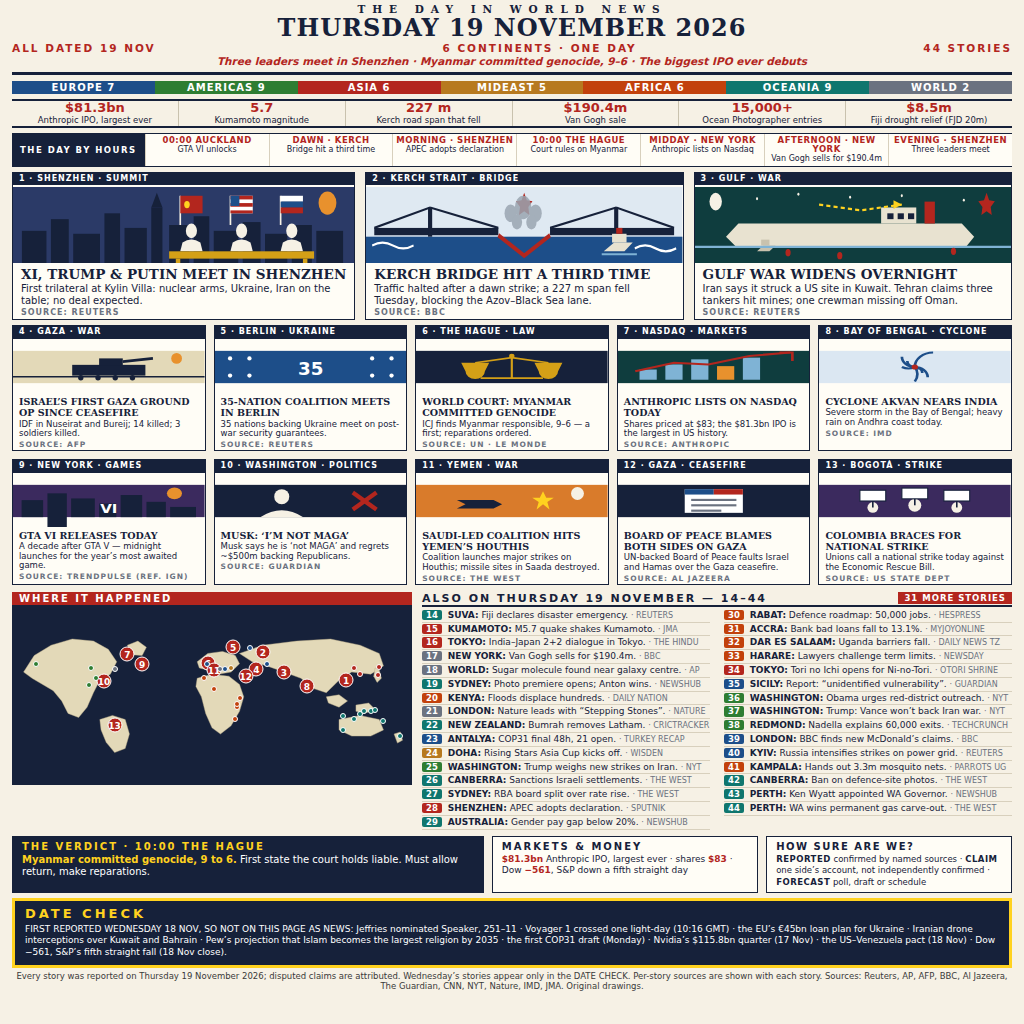
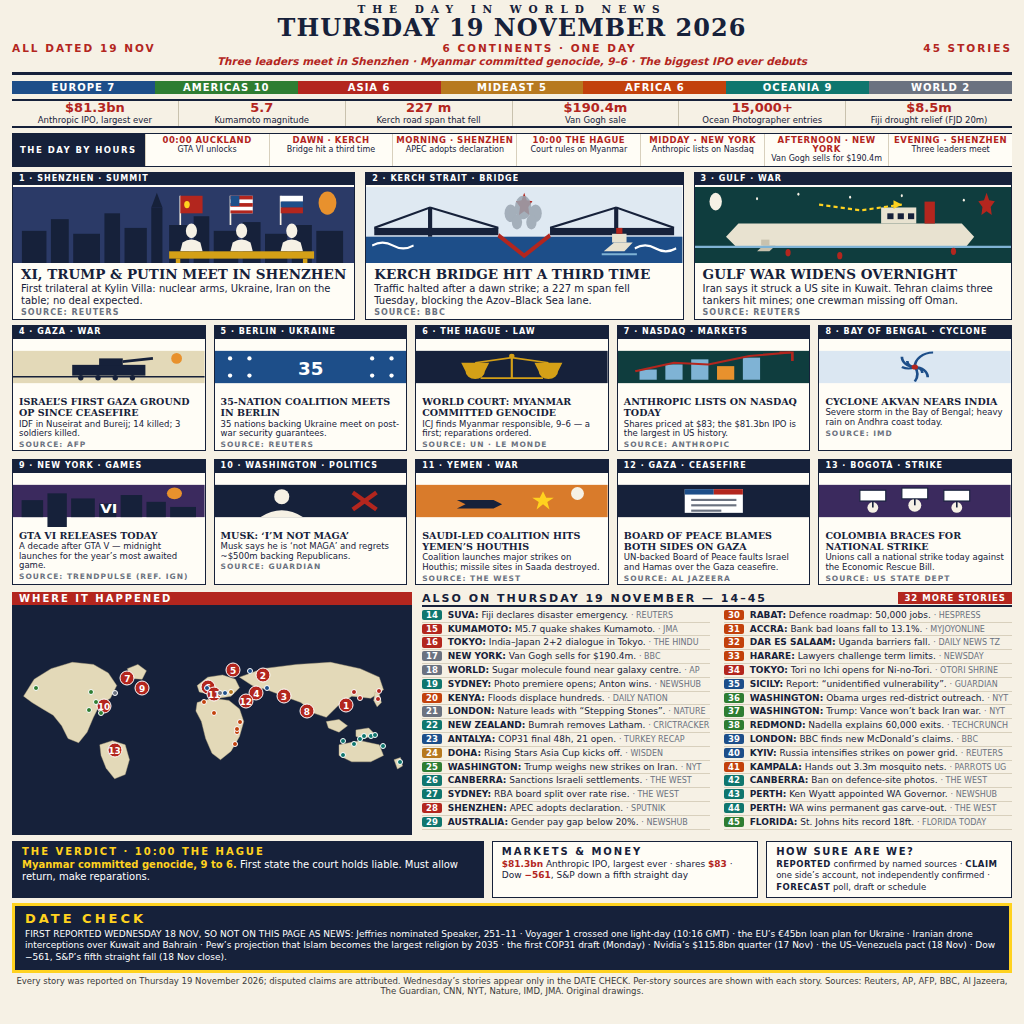
K2 v2 rev-6: add story 45 Florida (St. Johns record 18ft, verified Florida Today); map full-height 225px no gap; briefs balanced 16/16; counts 45 stories, Americas 10

Changed region(s): [[0.0, 0.625, 1.0, 0.9688], [0.1875, 0.0625, 0.25, 0.0938]]

diff --git a/render.html b/render.html
@@ -30,7 +30,7 @@ h1.date { font-size:24px; line-height:1.05; letter-spacing:1px; font-weight:900;
 .bottom { display:flex; gap:10px; margin-top:7px; }
 .mapcol { flex:0 0 40%; display:flex; flex-direction:column; justify-content:flex-start; }
 .map-label { background:#b3261e; color:#fff; font-size:10px; letter-spacing:2px; font-weight:bold; padding:1px 7px; }
-.map { border:1.5px solid #16213a; background:#16213a; position:relative; height:180px; overflow:hidden; }
+.map { border:1.5px solid #16213a; background:#16213a; position:relative; flex:1; overflow:hidden; }
 .map svg { width:100%; height:100%; display:block; }
 .pin { position:absolute; width:15px; height:15px; border-radius:50%; background:#b3261e; color:#fff; font-size:9px; font-weight:bold; text-align:center; line-height:15px; transform:translate(-50%,-50%); border:1.5px solid #fff; z-index:2; }
 .dot { position:absolute; width:6px; height:6px; border-radius:50%; transform:translate(-50%,-50%); border:1px solid #fff; z-index:2; }
@@ -77,11 +77,11 @@ h1.date { font-size:24px; line-height:1.05; letter-spacing:1px; font-weight:900;
 <div class="masthead">
   <div class="kicker">THE DAY IN WORLD NEWS</div>
   <h1 class="date">THURSDAY 19 NOVEMBER 2026</h1>
-  <div class="subline"><span>ALL DATED 19 NOV</span><span>6 CONTINENTS &middot; ONE DAY</span><span>44 STORIES</span></div>
+  <div class="subline"><span>ALL DATED 19 NOV</span><span>6 CONTINENTS &middot; ONE DAY</span><span>45 STORIES</span></div>
   <div class="subtitle">Three leaders meet in Shenzhen &middot; Myanmar committed genocide, 9&ndash;6 &middot; The biggest IPO ever debuts</div>
 </div>
 
-<div class="regions"><span style="background:#1d4e89">EUROPE 7</span><span style="background:#2e7d32">AMERICAS 9</span><span style="background:#b3261e">ASIA 6</span><span style="background:#b7791f">MIDEAST 5</span><span style="background:#c2410c">AFRICA 6</span><span style="background:#0f766e">OCEANIA 9</span><span style="background:#6b7280">WORLD 2</span></div>
+<div class="regions"><span style="background:#1d4e89">EUROPE 7</span><span style="background:#2e7d32">AMERICAS 10</span><span style="background:#b3261e">ASIA 6</span><span style="background:#b7791f">MIDEAST 5</span><span style="background:#c2410c">AFRICA 6</span><span style="background:#0f766e">OCEANIA 9</span><span style="background:#6b7280">WORLD 2</span></div>
 
 <div class="numbers">
   <div class="num-cell"><div class="v">$81.3bn</div><div class="l">Anthropic IPO, largest ever</div></div>
@@ -204,7 +204,7 @@ h1.date { font-size:24px; line-height:1.05; letter-spacing:1px; font-weight:900;
   <div class="mapcol">
     <div class="map-label">WHERE IT HAPPENED</div>
     <div class="map">
-      <svg viewBox="30 -60 940 431" preserveAspectRatio="none">
+      <svg viewBox="30 -113 940 538" preserveAspectRatio="none">
         <polygon points="55,100 80,60 120,35 170,20 220,25 255,45 275,75 260,105 235,120 220,150 205,185 185,210 160,200 145,170 125,145 100,130 75,115" fill="#e3d9b8" stroke="#b9ac86" stroke-width="1"/>
         <polygon points="300,35 325,25 345,40 335,60 310,58" fill="#e3d9b8" stroke="#b9ac86" stroke-width="1"/>
         <polygon points="235,215 265,205 295,215 305,250 295,285 270,295 250,270 238,240" fill="#e3d9b8" stroke="#b9ac86" stroke-width="1"/>
@@ -218,54 +218,55 @@ h1.date { font-size:24px; line-height:1.05; letter-spacing:1px; font-weight:900;
         <polygon points="800,215 850,205 895,215 905,240 875,255 830,255 800,240" fill="#e3d9b8" stroke="#b9ac86" stroke-width="1"/>
         <polygon points="930,250 945,245 950,265 938,272" fill="#e3d9b8" stroke="#b9ac86" stroke-width="1"/>
       </svg>
-      <div class="pin" style="left:83.72%;top:41.77%">1</div>
-      <div class="pin" style="left:62.77%;top:25.75%">2</div>
-      <div class="pin" style="left:68.09%;top:36.89%">3</div>
-      <div class="pin" style="left:61.17%;top:35.49%">4</div>
-      <div class="pin" style="left:55.32%;top:22.98%">5</div>
-      <div class="pin" style="left:48.94%;top:32.03%">6</div>
-      <div class="pin" style="left:28.72%;top:27.14%">7</div>
-      <div class="pin" style="left:73.83%;top:45.24%">8</div>
-      <div class="dot" style="left:97.34%;top:73.08%;background:#0f766e"></div>
-      <div class="dot" style="left:87.23%;top:38.28%;background:#b3261e"></div>
-      <div class="dot" style="left:92.02%;top:34.10%;background:#b3261e"></div>
-      <div class="pin" style="left:32.45%;top:32.71%">9</div>
-      <div class="dot" style="left:25.53%;top:35.49%;background:#6b7280"></div>
-      <div class="pin" style="left:22.87%;top:42.45%">10</div>
-      <div class="dot" style="left:25.53%;top:68.21%;background:#6b7280"></div>
-      <div class="pin" style="left:50.53%;top:36.20%">11</div>
-      <div class="pin" style="left:58.51%;top:39.68%">12</div>
-      <div class="pin" style="left:25.53%;top:66.82%">13</div>
-      <div class="dot" style="left:89.89%;top:59.17%;background:#0f766e"></div>
-      <div class="dot" style="left:56.91%;top:51.50%;background:#c2410c"></div>
-      <div class="dot" style="left:52.13%;top:35.49%;background:#6b7280"></div>
-      <div class="dot" style="left:93.09%;top:64.73%;background:#0f766e"></div>
-      <div class="dot" style="left:63.83%;top:32.71%;background:#1d4e89"></div>
-      <div class="dot" style="left:54.79%;top:34.80%;background:#b7791f"></div>
-      <div class="dot" style="left:20.74%;top:40.38%;background:#2e7d32"></div>
-      <div class="dot" style="left:87.23%;top:60.91%;background:#0f766e"></div>
-      <div class="dot" style="left:90.96%;top:58.47%;background:#0f766e"></div>
-      <div class="dot" style="left:85.64%;top:34.80%;background:#b3261e"></div>
-      <div class="dot" style="left:85.64%;top:63.34%;background:#0f766e"></div>
-      <div class="dot" style="left:47.87%;top:40.38%;background:#c2410c"></div>
-      <div class="dot" style="left:50.53%;top:46.63%;background:#c2410c"></div>
-      <div class="dot" style="left:56.38%;top:56.85%;background:#c2410c"></div>
-      <div class="dot" style="left:55.85%;top:63.34%;background:#c2410c"></div>
-      <div class="dot" style="left:91.70%;top:38.98%;background:#b3261e"></div>
-      <div class="dot" style="left:53.19%;top:35.49%;background:#1d4e89"></div>
-      <div class="dot" style="left:19.68%;top:34.80%;background:#2e7d32"></div>
-      <div class="dot" style="left:19.15%;top:44.55%;background:#2e7d32"></div>
-      <div class="dot" style="left:5.85%;top:32.71%;background:#2e7d32"></div>
-      <div class="dot" style="left:48.72%;top:32.48%;background:#1d4e89"></div>
-      <div class="dot" style="left:59.57%;top:23.66%;background:#1d4e89"></div>
-      <div class="dot" style="left:56.38%;top:54.99%;background:#c2410c"></div>
-      <div class="dot" style="left:88.30%;top:59.17%;background:#0f766e"></div>
-      <div class="dot" style="left:82.98%;top:61.94%;background:#0f766e"></div>
-      <div class="dot" style="left:82.98%;top:69.61%;background:#0f766e"></div>
+      <div class="pin" style="left:83.72%;top:43.31%">1</div>
+      <div class="pin" style="left:62.77%;top:30.48%">2</div>
+      <div class="pin" style="left:68.09%;top:39.40%">3</div>
+      <div class="pin" style="left:61.17%;top:38.28%">4</div>
+      <div class="pin" style="left:55.32%;top:28.26%">5</div>
+      <div class="pin" style="left:48.94%;top:35.51%">6</div>
+      <div class="pin" style="left:28.72%;top:31.59%">7</div>
+      <div class="pin" style="left:73.83%;top:46.09%">8</div>
+      <div class="dot" style="left:97.34%;top:68.40%;background:#0f766e"></div>
+      <div class="dot" style="left:87.23%;top:40.52%;background:#b3261e"></div>
+      <div class="dot" style="left:92.02%;top:37.17%;background:#b3261e"></div>
+      <div class="pin" style="left:32.45%;top:36.06%">9</div>
+      <div class="dot" style="left:25.53%;top:38.28%;background:#6b7280"></div>
+      <div class="pin" style="left:22.87%;top:43.86%">10</div>
+      <div class="dot" style="left:25.53%;top:64.50%;background:#6b7280"></div>
+      <div class="pin" style="left:50.53%;top:38.85%">11</div>
+      <div class="pin" style="left:58.51%;top:41.64%">12</div>
+      <div class="pin" style="left:25.53%;top:63.38%">13</div>
+      <div class="dot" style="left:89.89%;top:57.25%;background:#0f766e"></div>
+      <div class="dot" style="left:56.91%;top:51.11%;background:#c2410c"></div>
+      <div class="dot" style="left:52.13%;top:38.28%;background:#6b7280"></div>
+      <div class="dot" style="left:93.09%;top:61.71%;background:#0f766e"></div>
+      <div class="dot" style="left:63.83%;top:36.06%;background:#1d4e89"></div>
+      <div class="dot" style="left:54.79%;top:37.73%;background:#b7791f"></div>
+      <div class="dot" style="left:20.74%;top:42.20%;background:#2e7d32"></div>
+      <div class="dot" style="left:87.23%;top:58.65%;background:#0f766e"></div>
+      <div class="dot" style="left:90.96%;top:56.69%;background:#0f766e"></div>
+      <div class="dot" style="left:85.64%;top:37.73%;background:#b3261e"></div>
+      <div class="dot" style="left:85.64%;top:60.59%;background:#0f766e"></div>
+      <div class="dot" style="left:47.87%;top:42.20%;background:#c2410c"></div>
+      <div class="dot" style="left:50.53%;top:47.21%;background:#c2410c"></div>
+      <div class="dot" style="left:56.38%;top:55.39%;background:#c2410c"></div>
+      <div class="dot" style="left:55.85%;top:60.59%;background:#c2410c"></div>
+      <div class="dot" style="left:91.70%;top:41.08%;background:#b3261e"></div>
+      <div class="dot" style="left:53.19%;top:38.28%;background:#1d4e89"></div>
+      <div class="dot" style="left:19.68%;top:37.73%;background:#2e7d32"></div>
+      <div class="dot" style="left:19.15%;top:45.54%;background:#2e7d32"></div>
+      <div class="dot" style="left:5.85%;top:36.06%;background:#2e7d32"></div>
+      <div class="dot" style="left:48.72%;top:35.87%;background:#1d4e89"></div>
+      <div class="dot" style="left:59.57%;top:28.81%;background:#1d4e89"></div>
+      <div class="dot" style="left:56.38%;top:53.90%;background:#c2410c"></div>
+      <div class="dot" style="left:88.30%;top:57.25%;background:#0f766e"></div>
+      <div class="dot" style="left:82.98%;top:59.47%;background:#0f766e"></div>
+      <div class="dot" style="left:82.98%;top:65.62%;background:#0f766e"></div>
+      <div class="dot" style="left:22.00%;top:47.00%;background:#2e7d32"></div>
     </div>
   </div>
   <div class="briefcol">
-    <div class="briefs-head">ALSO ON THURSDAY 19 NOVEMBER &mdash; 14&ndash;44<span class="tag">31 MORE STORIES</span></div>
+    <div class="briefs-head">ALSO ON THURSDAY 19 NOVEMBER &mdash; 14&ndash;45<span class="tag">32 MORE STORIES</span></div>
     <div class="briefs">
       <div>
         <div class="brief"><span class="chip" style="background:#0f766e">14</span> <b>SUVA:</b> Fiji declares disaster emergency. <span class="src">&middot; REUTERS</span></div>
@@ -301,6 +302,7 @@ h1.date { font-size:24px; line-height:1.05; letter-spacing:1px; font-weight:900;
         <div class="brief"><span class="chip" style="background:#0f766e">42</span> <b>CANBERRA:</b> Ban on defence-site photos. <span class="src">&middot; THE WEST</span></div>
         <div class="brief"><span class="chip" style="background:#0f766e">43</span> <b>PERTH:</b> Ken Wyatt appointed WA Governor. <span class="src">&middot; NEWSHUB</span></div>
         <div class="brief"><span class="chip" style="background:#0f766e">44</span> <b>PERTH:</b> WA wins permanent gas carve-out. <span class="src">&middot; THE WEST</span></div>
+        <div class="brief"><span class="chip" style="background:#2e7d32">45</span> <b>FLORIDA:</b> St. Johns hits record 18ft. <span class="src">&middot; FLORIDA TODAY</span></div>
       </div>
     </div>
   </div>
